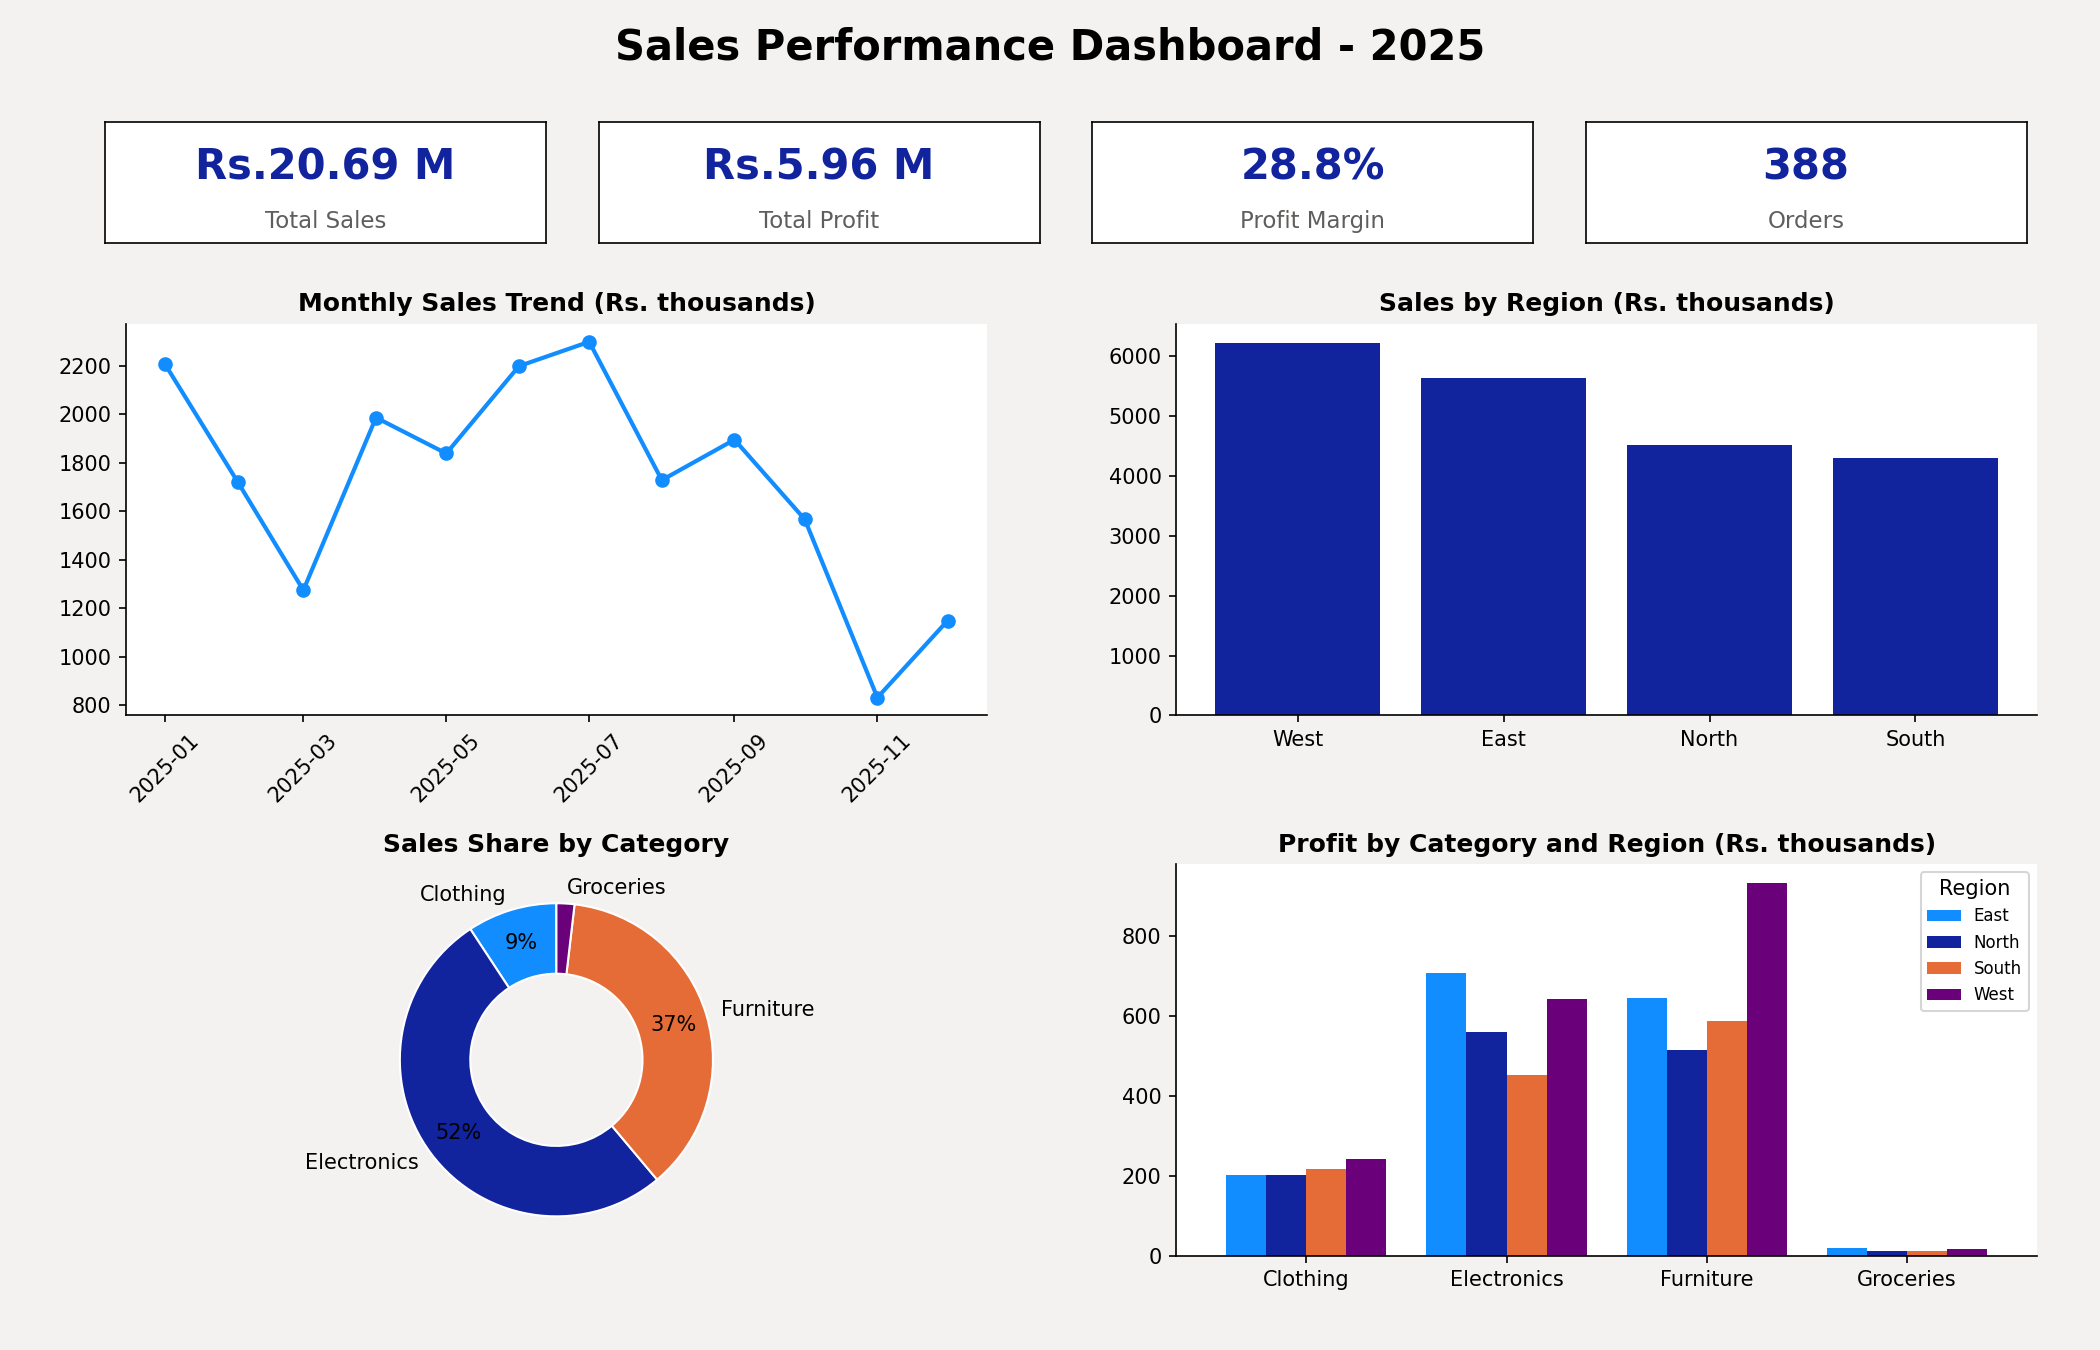
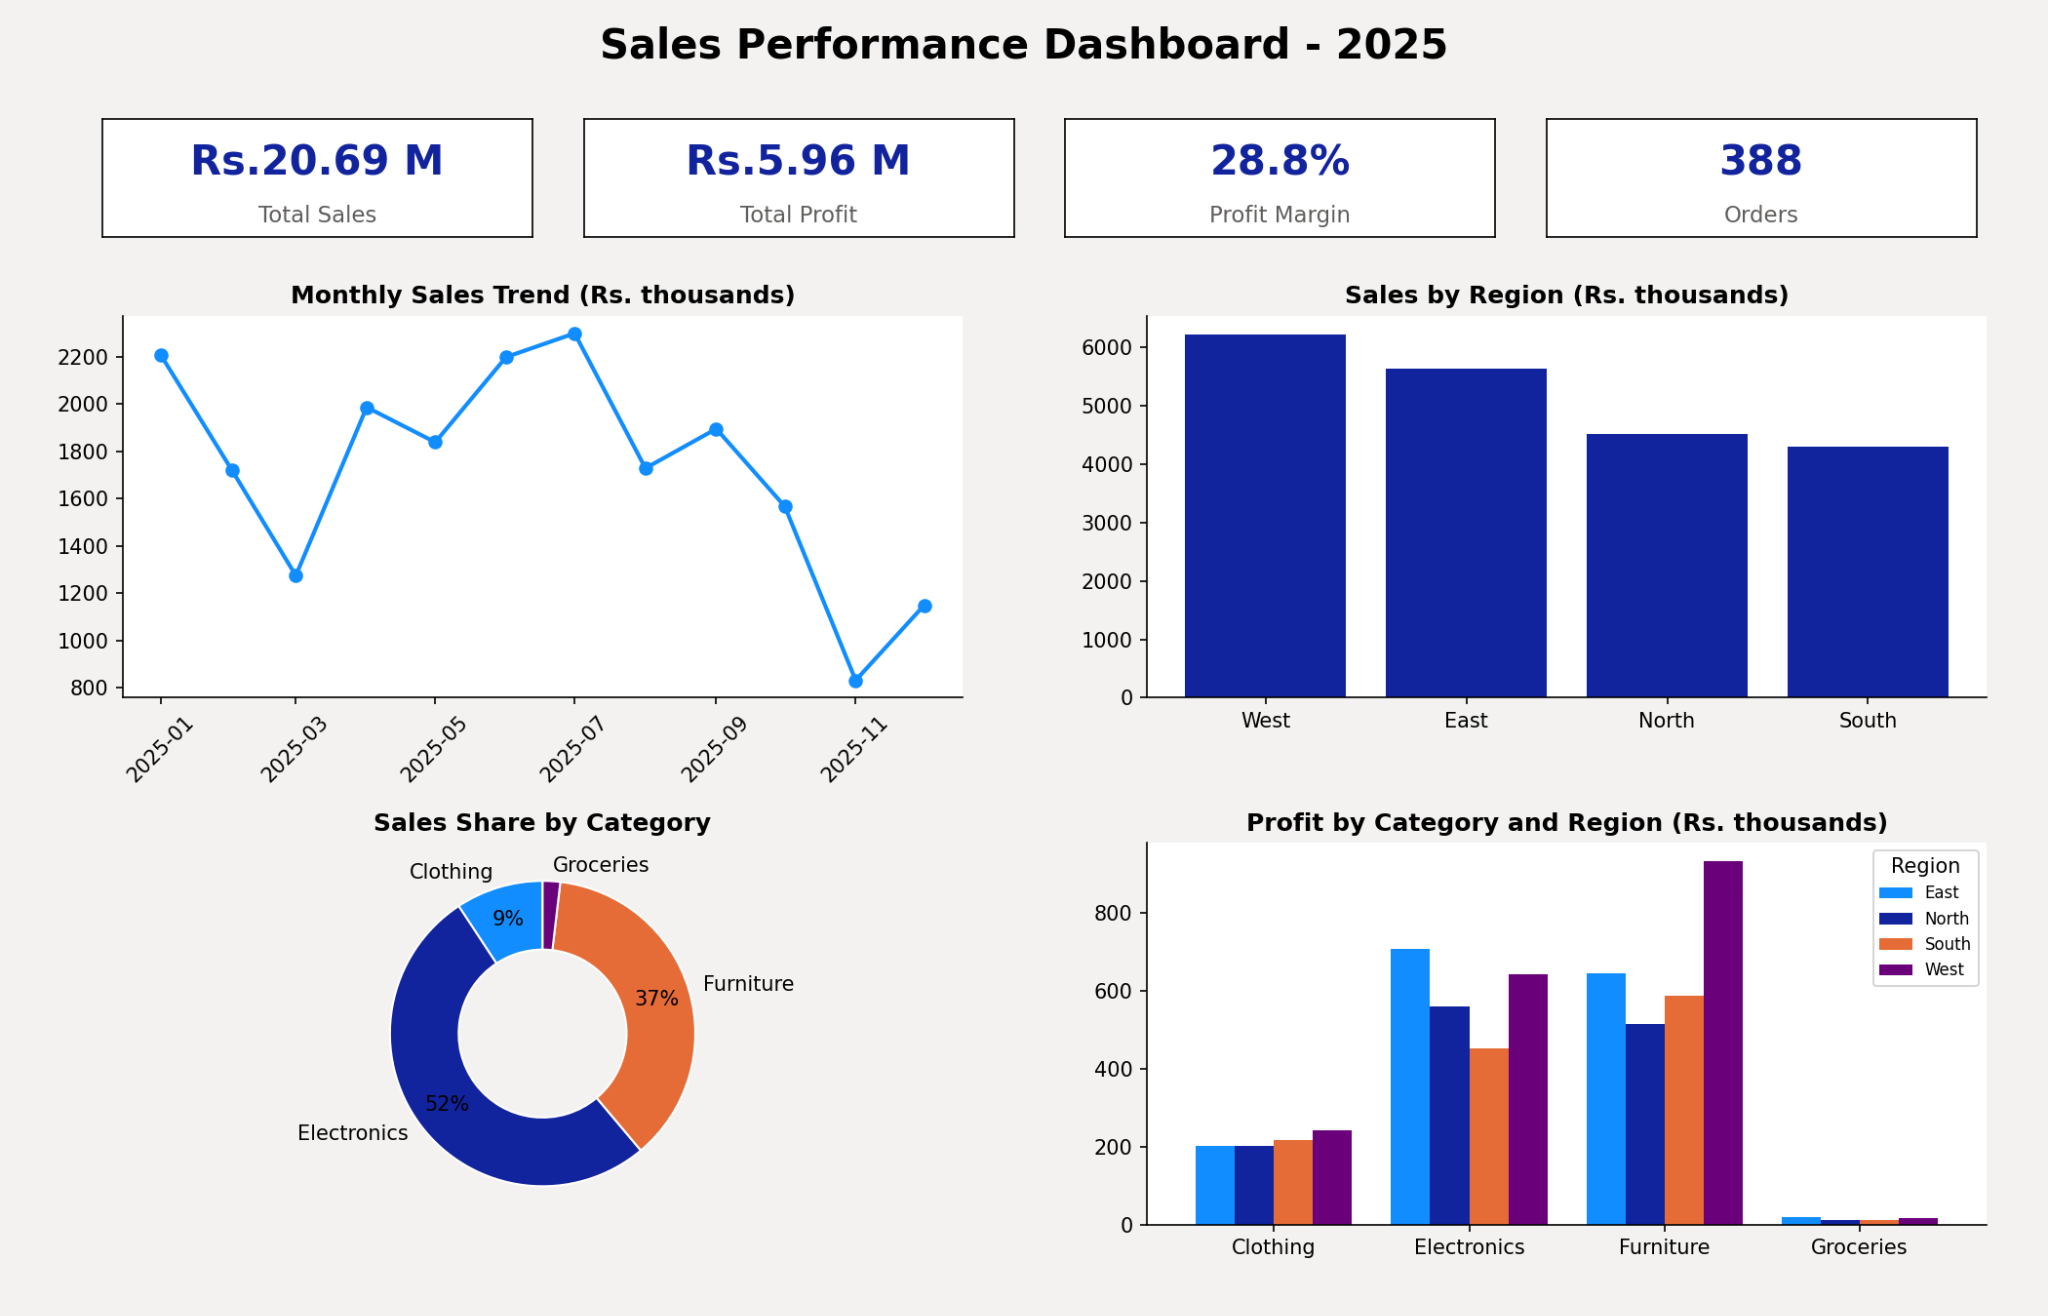
update python programs and fix README links

diff --git a/README.md b/README.md
@@ -1,45 +1,80 @@
-# NM1130 - AI and Digital Skills (Naan Mudhalvan)
+# NM1130 · AI & Digital Skills Lab
 
-**University College of Engineering (BIT Campus), Anna University, Tiruchirappalli**
-Department of CSE (AI & ML) | Academic Year 2026-2027 | Semester III
+A compact portfolio of eight Python experiments for the **Naan Mudhalvan NM1130 AI and Digital Skills** course. The examples cover introductory machine learning, productivity automation, practical AI applications, professional branding, cybersecurity, version-control concepts, sales analytics, and career planning.
 
-This repository contains one Python program for each experiment in the NM1130 record.
-Every program is self-contained, prints a clear step-by-step output, and ends with a *Result* line.
+> These are educational demonstrations. Model predictions and security checks are simplified examples, not production or professional advice.
 
 ## Experiments
 
-| Ex.No | Experiment | Program | What it demonstrates |
-|------:|------------|---------|----------------------|
-| 1 | AI Fluency | [`ex01_ai_fluency/ai_fluency.py`](ex01_ai_fluency/ai_fluency.py) | AI timeline, classification, regression, clustering, optimization, neural network, NLP sentiment analysis |
-| 2 | AI Productivity | [`ex02_ai_productivity/ai_productivity.py`](ex02_ai_productivity/ai_productivity.py) | Copilot-style assistant: email drafting, summaries, action items, proposals, sales insights (optional real LLM call) |
-| 3 | AI Applications | [`ex03_ai_applications/ai_applications.py`](ex03_ai_applications/ai_applications.py) | Healthcare, banking fraud detection, recommendation engine, agriculture yield prediction |
-| 4 | LinkedIn: Building Your Professional Brand | [`ex04_linkedin_branding/linkedin_profile_analyzer.py`](ex04_linkedin_branding/linkedin_profile_analyzer.py) | Profile scoring, common-mistake detection, headline generator, before/after chart |
-| 5 | Cybersecurity | [`ex05_cybersecurity/cybersecurity_toolkit.py`](ex05_cybersecurity/cybersecurity_toolkit.py) | Password strength, secure generator, salted hashing, phishing URL detector, 2FA (TOTP), data integrity |
-| 6 | GitHub Foundations | [`ex06_github_foundations/mini_git.py`](ex06_github_foundations/mini_git.py) | Mini Git: commit, branch, merge, conflict, clone, push, pull request, review |
-| 7 | Power BI | [`ex07_power_bi/power_bi_dashboard.py`](ex07_power_bi/power_bi_dashboard.py) | Get data, clean (Power Query), KPIs (DAX), dashboard image, CSV export for Power BI Desktop |
-| 8 | Career Essentials | [`ex08_career_essentials/career_essentials.py`](ex08_career_essentials/career_essentials.py) | Skill self-assessment, gap analysis, radar chart, SMART goals, Eisenhower matrix |
+| No. | Topic | Program | What it demonstrates |
+|---:|---|---|---|
+| 01 | AI Fluency | [`01.ai_fluency.py`](01.ai_fluency.py) | Classification, regression, clustering, gradient descent, a neural network, and basic sentiment analysis |
+| 02 | AI Productivity | [`02.ai_productivity.py`](02.ai_productivity.py) | Email drafts, extractive summaries, action-item detection, proposals, and sales insights |
+| 03 | AI Applications | [`03.ai_applications.py`](03.ai_applications.py) | Educational examples for healthcare classification, fraud detection, recommendations, and crop-yield prediction |
+| 04 | LinkedIn Profile Analyzer | [`04.linkedin_profile_analyzer.py`](04.linkedin_profile_analyzer.py) | Profile checklist scoring, improvement suggestions, and a before/after chart |
+| 05 | Cybersecurity Toolkit | [`05.cybersecurity_toolkit.py`](05.cybersecurity_toolkit.py) | Password strength and generation, password hashing, URL risk checks, TOTP, and SHA-256 integrity |
+| 06 | Mini Git | [`06.mini_git.py`](06.mini_git.py) | A small in-memory version-control simulator covering commits, branches, merges, and pull requests |
+| 07 | Power BI-style Sales Dashboard | [`07.power_bi_dashboard.py`](07.power_bi_dashboard.py) | Data cleaning, KPIs, visualisation, and CSV export |
+| 08 | Career Essentials | [`08.career_essentials.py`](08.career_essentials.py) | Skills self-assessment, gap analysis, SMART goals, and the Eisenhower matrix |
 
-## How to run
+## Repository files
 
-```bash
-# 1. (optional) create a virtual environment
-python -m venv .venv
-.venv\Scripts\activate        # Windows
-source .venv/bin/activate     # macOS / Linux
+All eight Python programs are in the repository root. The accompanying sample data and generated examples are also stored in the root:
 
-# 2. install the libraries
-pip install -r requirements.txt
+- Sales data: [`07.sales_raw.csv`](07.sales_raw.csv) and [`07.sales_clean.csv`](07.sales_clean.csv)
+- Sales dashboard preview: [`07.sales_dashboard.png`](07.sales_dashboard.png)
+- LinkedIn profile chart preview: [`04.profile_improvement.png`](04.profile_improvement.png)
+- Career skills radar preview: [`08.career_skills_radar.png`](08.career_skills_radar.png)
+- Dependencies: [`requirements.txt`](requirements.txt)
 
-# 3. run any experiment
-python ex01_ai_fluency/ai_fluency.py
-python ex08_career_essentials/career_essentials.py --interactive
-```
+The links above point to the actual filenames in this repository, rather than to folders that are not present.
 
-Requires Python 3.10 or newer. Experiments 2, 5 and 6 need no extra libraries.
-Charts and CSV files are created in the same folder as the program that makes them.
+## Run locally
 
-## Output files
+Python 3.10 or newer is recommended.
 
-- `ex04_linkedin_branding/profile_improvement.png`
-- `ex07_power_bi/sales_dashboard.png`, `sales_clean.csv` (import into Power BI Desktop)
-- `ex08_career_essentials/career_skills_radar.png`
+1. Download or clone this repository.
+2. (Optional) Create and activate a virtual environment:
+
+   ```bash
+   python -m venv .venv
+   # Windows
+   .venv\Scripts\activate
+   # macOS/Linux
+   source .venv/bin/activate
+   ```
+
+3. Install the listed libraries:
+
+   ```bash
+   python -m pip install -r requirements.txt
+   ```
+
+4. Run an experiment from the repository root, for example:
+
+   ```bash
+   python 01.ai_fluency.py
+   python 04.linkedin_profile_analyzer.py
+   python 07.power_bi_dashboard.py
+   python 08.career_essentials.py --interactive
+   ```
+
+Experiments 2, 5, and 6 use only the Python standard library for their core demonstrations. Experiment 2's optional live model call requires the optional `anthropic` package and an `ANTHROPIC_API_KEY` environment variable.
+
+## Output notes
+
+The chart-producing programs save their charts beside the script when run. The sales dashboard program also creates cleaned data files. Existing preview images and CSV files are included so the repository can be inspected without running the programs first.
+
+## Learning notes
+
+- Start with Experiments 1–3 to see different ways AI models are trained or applied.
+- Experiment 5 is a useful place to compare hashing, randomness, and URL heuristics.
+- Experiment 6 illustrates version-control ideas in a simplified in-memory model; it is not a replacement for Git.
+- Experiment 7 follows a data workflow: collect → clean → calculate → visualise.
+- Experiment 8 turns a self-assessment into a short action plan.
+
+## Possible next improvements
+
+- Add automated tests for input validation and edge cases.
+- Move each experiment and its generated files into its own folder once the root-level version is understood.
+- Add screenshots of sample terminal output and document the Python version used.
